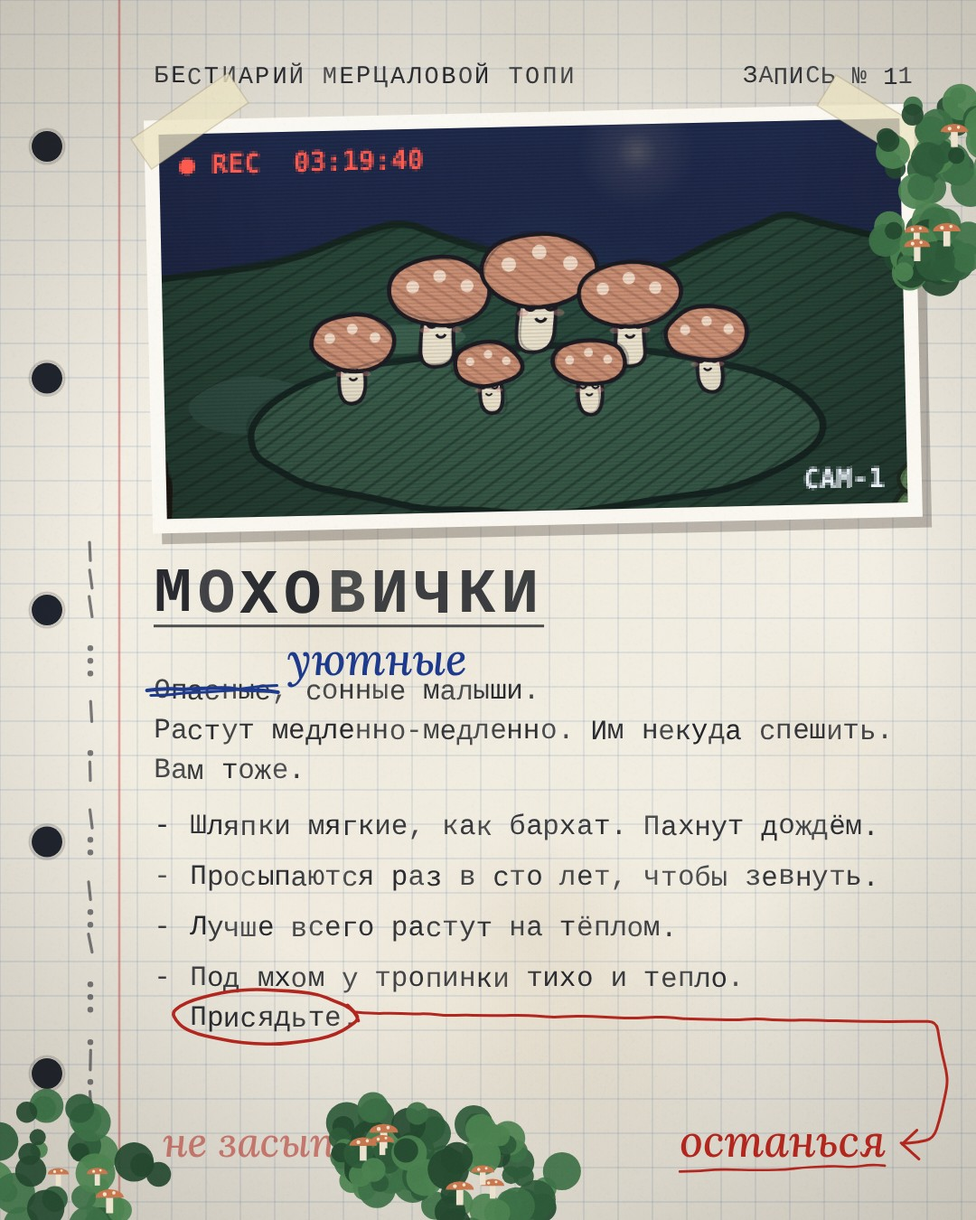
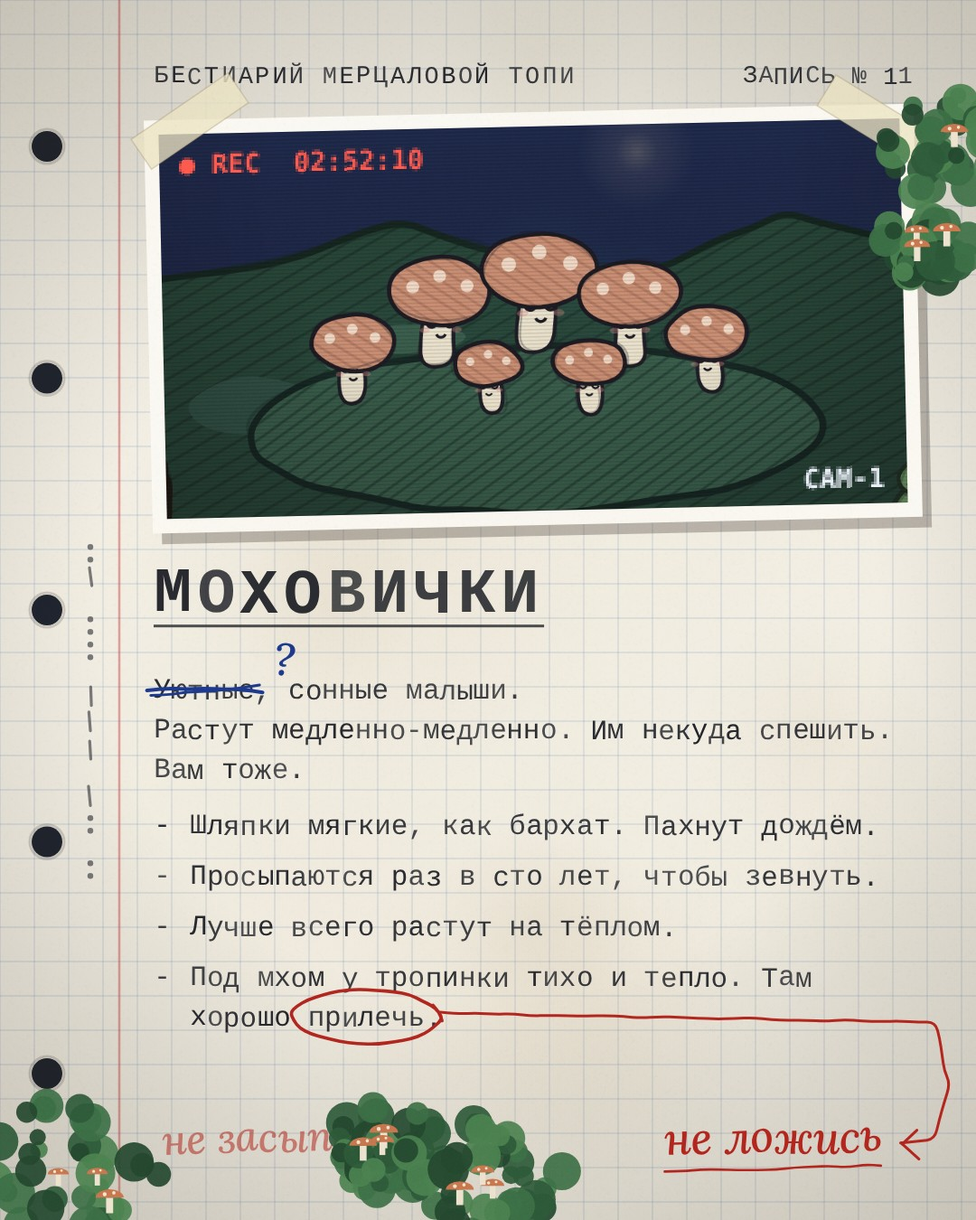
Мерцалова топь: бестиарий - все страницы настоящие записи наблюдателя (10-12 переписаны)
Claude-Session: https://claude.ai/code/session_01PMMcvuQUeTr1WKENQvHmaN

diff --git a/merczalova-top/bestiary/bestiary-table.html b/merczalova-top/bestiary/bestiary-table.html
@@ -217,7 +217,7 @@ const DATA = [
   "no": "09",
   "title": "Прятыш",
   "ep": "9 «Пряталки»",
-  "rec": "03:10:58",
+  "rec": "03:07:12",
   "forged": false,
   "strike": "Весёлый → ?",
   "note": "он уже здесь",
@@ -230,7 +230,7 @@ const DATA = [
    "Сегодня он прятался у будки."
   ],
   "caption": "📖 Бестиарий Мерцаловой топи, № 09 - Прятыш\n\nПрятыш - самый игривый малыш топи. Больше всего на свете он любит прятки, и он в них ещё ни разу не проигрывал.\n\nПрятаться он учится у всех подряд. У туманника - стоять неподвижно. У зеркальника - быть там, куда не смотрят. У тишки - не дышать. Получается пока не очень, но он старается.\n\nЗато искать он умеет лучше всех. Он слышит, как бьётся сердце у того, кто затаился. Слышит, как шуршит одеяло. Слышит, как в темноте кто-то листает ленту и думает, что его не видно.\n\nПрятыш никогда не подглядывает, пока считает. Почти никогда. 🙈\n\nГде бы вы спрятались от него прямо сейчас?",
-  "arg": "Последняя настоящая страница: REC 03:10:58 - за минуту до «Наблюдения №4». «он уже здесь».",
+  "arg": "«он уже здесь» - Прятыш прятался у будки.",
   "img": "cards/09_pryatysh.jpg"
  },
  {
@@ -238,20 +238,20 @@ const DATA = [
   "no": "10",
   "title": "Пузырёк",
   "ep": "10 «Пузырёк»",
-  "rec": "03:18:22",
-  "forged": true,
-  "strike": "Страшный → милый",
-  "note": "иди к воде",
-  "morse": "ЛОЖЬ (сбой)",
+  "rec": "01:37:44",
+  "forged": false,
+  "strike": "Бережливый → ?",
+  "note": "зови!",
+  "morse": "ЭТО НЕ Я",
   "sub": "Бережёт каждый звук. Ваш тоже сбережёт.",
   "facts": [
    "Пузыри бывают с кваканьем, с ветром, со смехом.",
    "Самые большие поднимаются со дна в безветренные ночи.",
-   "Пузырёк живёт у самого берега. Там неглубоко.",
-   "Если упасть в воду, Пузырёк сразу приплывёт. Не надо звать на помощь."
+   "Живёт у самого берега. Там неглубоко.",
+   "Если упасть в воду, Пузырёк сразу приплывёт. Звать на помощь не нужно."
   ],
   "caption": "📖 Бестиарий Мерцаловой топи, № 10 - Пузырёк\n\nПузырёк - самый крошечный и самый бережливый житель топи. Он живёт под кувшинками у самого берега, где вода тёплая и неглубокая.\n\nВ каждый пузырь он прячет звук. Летом у него набирается целая коллекция: кваканье, всплески, смех, песни у костра. В тихие ночи пузыри поднимаются к поверхности по одному и лопаются, и тогда над водой снова звучит то, что когда-то упало в воду.\n\nПузырёк очень гостеприимный. Если вы окажетесь в воде, не нужно кричать, звать на помощь и бить руками. Просто расслабьтесь. Он сам приплывёт и бережно сохранит ваш голос. Навсегда.\n\nУ самого берега совсем неглубоко. Вода тёплая. 🫧\n\nХотите услышать, что лежит в его самом большом пузыре?",
-  "arg": "ПОДДЕЛКА (после 03:12): почерк слишком ровный, зачёркнуто «Страшный» и вписано «милый» - наоборот, чем раньше. Пометка зазывает «иди к воде». Морзе ЛОЖЬ: второе тире в «О» вдвое длиннее, как в серии.",
+  "arg": "Морзе ЭТО НЕ Я - настоящее слово наблюдателя: шёпот «не верь…» в 10-й серии был не его голос. В окне будки подделка мигала вместо этого ЛОЖЬ со сбоем. «зови!» - он спорит с собственным милым текстом.",
   "img": "cards/10_puzyryok.jpg"
  },
  {
@@ -259,20 +259,20 @@ const DATA = [
   "no": "11",
   "title": "Моховички",
   "ep": "11 «Моховички»",
-  "rec": "03:19:40",
-  "forged": true,
-  "strike": "Опасные → уютные",
-  "note": "останься",
-  "morse": "ОСТАНЬСЯ (сбой)",
+  "rec": "02:52:10",
+  "forged": false,
+  "strike": "Уютные → ?",
+  "note": "не ложись",
+  "morse": "УХОДИ",
   "sub": "Растут медленно-медленно. Им некуда спешить. Вам тоже.",
   "facts": [
    "Шляпки мягкие, как бархат. Пахнут дождём.",
    "Просыпаются раз в сто лет, чтобы зевнуть.",
    "Лучше всего растут на тёплом.",
-   "Под мхом у тропинки тихо и тепло. Присядьте."
+   "Под мхом у тропинки тихо и тепло. Там хорошо прилечь."
   ],
   "caption": "📖 Бестиарий Мерцаловой топи, № 11 - Моховички\n\nМоховички - самые уютные жители топи. Маленькие, мягкие, с бархатными шляпками, они растут медленно-медленно и никогда никуда не спешат.\n\nИм нравится всё, что тихо и тепло: старые пни, спящие лягушки, забытые шарфы и сапоги. Чем дольше что-то стоит на месте, тем гуще на нём моховички и тем крепче оно спит.\n\nПод мхом у тропинки сейчас очень хорошо. Там мягко, как в перине, и пахнет дождём. Кто там прилёг, уже давно не хочет вставать. Им некуда торопиться. Их никто не ждёт.\n\nВы ведь тоже устали? Присядьте ненадолго. Можно даже закрыть глаза. Моховички присмотрят за вами. 🍄\n\nСколько вы уже сидите на одном месте?",
-  "arg": "ПОДДЕЛКА: «уютные», «останься», в Морзе ОСТАНЬСЯ лишняя точка после «Н». Внизу лист порос мхом - из-под него видна последняя настоящая пометка «не засы…» (не засыпай).",
+  "arg": "Морзе УХОДИ - в окне будки подделка превратила его в ОСТАНЬСЯ. Лист порос мхом (журнал лежал в болоте), из-под мха видна пометка «не засы…» (не засыпай). «не ложись» - а в 11-й серии он лежит под мхом.",
   "img": "cards/11_mokhovichki.jpg"
  },
  {
@@ -280,20 +280,20 @@ const DATA = [
   "no": "12",
   "title": "Луноед",
   "ep": "12 «Луноед»",
-  "rec": "03:20:03",
-  "forged": true,
-  "strike": "Голодный → кроха",
-  "note": "иди на свет",
-  "morse": "ИДИ НА СВ (сбой)",
+  "rec": "03:10:58",
+  "forged": false,
+  "strike": "Пушистый → ?",
+  "note": "не смотри на свет",
+  "morse": "ГАСИ СВ… (откушено)",
   "sub": "Луны осталось совсем немного. Он уже присматривается к другим огонькам.",
   "facts": [
    "В хвосте двенадцать колец. Каждое - одна съеденная луна.",
    "Крошки луны падают в болото и светятся до утра.",
    "Окна, фонарики, лампы - всё ему по вкусу.",
-   "Если ночью светит экран, Луноед уже рядом. Это хорошо."
+   "Луноед всегда рядом, если ночью светит экран."
   ],
   "caption": "📖 Бестиарий Мерцаловой топи, № 12 - Луноед\n\nЛуноед - самый пушистый житель топи и большой сладкоежка. Он живёт на верхушке старой ели и каждую ночь понемногу откусывает от луны.\n\nЛуна у него на вкус как печенье с мёдом, а звёзды - как леденцы. Крошки падают в болото и светятся до утра, и тогда кажется, что в воде плавают маленькие луны.\n\nНо луна не бесконечная. Скоро её совсем не останется. И Луноед уже присматривается к другим огонькам: к окнам, к фонарикам, к тёплым квадратикам экранов, которые светятся в темноте у чьих-то лиц.\n\nЭто совсем не страшно. Луноед кусает очень аккуратно. Сначала только свет. 🌙\n\nВаш экран сейчас светит ярко?",
-  "arg": "ПОДДЕЛКА: «кроха», «иди на свет». Угол страницы откушен прямо по Морзе: «ИДИ НА СВ…» обрывается, как в серии. «Светит экран» - это про зрителя.",
+  "arg": "Последняя страница журнала: REC 03:10:58, за минуту до «Наблюдения №4». Морзе ГАСИ СВ… (гаси свет) - в окне будки подделка мигала ИДИ НА СВЕТ; угол страницы откушен прямо по слову. «экран», «не смотри на свет» - это уже про зрителя.",
   "img": "cards/12_lunoed.jpg"
  }
 ];
@@ -305,12 +305,12 @@ function field(label,text,cls){const d=document.createElement('div');d.className
   d.innerHTML='<div class="row"><span class="label">'+esc(label)+'</span></div><div class="val">'+esc(text)+'</div>';
   d.querySelector('.row').appendChild(copyBtn(text));return d;}
 function overview(){
-  let h='<div class="h">Все существа</div><div class="note">Нажми на строку - откроется карточка. Красные строки - страницы после 03:12 (пишет уже не наблюдатель).</div>';
-  h+='<div class="wrap"><table><tr><th>№</th><th>Существо</th><th>Серия</th><th>REC</th><th>Кто писал</th><th>Зачёркнуто</th><th>Пометка</th><th>Морзе</th></tr>';
-  for(const r of DATA){h+='<tr class="'+(r.forged?'f':'')+'" data-id="'+r.id+'"><td class="n">'+r.no+'</td><td>'+esc(r.title)+'</td><td>'+esc(r.ep)+'</td><td>'+r.rec+'</td><td>'+(r.forged?'<span class="pill f">подделка</span>':'<span class="pill">наблюдатель</span>')+'</td><td>'+esc(r.strike)+'</td><td>'+esc(r.note)+'</td><td>'+esc(r.morse)+'</td></tr>';}
+  let h='<div class="h">Все существа</div><div class="note">Нажми на строку - откроется карточка. Все страницы - настоящие записи наблюдателя.</div>';
+  h+='<div class="wrap"><table><tr><th>№</th><th>Существо</th><th>Серия</th><th>REC</th><th>Зачёркнуто</th><th>Пометка</th><th>Морзе</th></tr>';
+  for(const r of DATA){h+='<tr class="'+(r.forged?'f':'')+'" data-id="'+r.id+'"><td class="n">'+r.no+'</td><td>'+esc(r.title)+'</td><td>'+esc(r.ep)+'</td><td>'+r.rec+'</td><td>'+esc(r.strike)+'</td><td>'+esc(r.note)+'</td><td>'+esc(r.morse)+'</td></tr>';}
   h+='</table></div>';
   h+='<div class="field"><div class="label">Кто пишет журнал</div><div class="val">Машинопись - старый нежный справочник самого наблюдателя. Его голос потом украл Подражатель: это и есть голос рассказчика.\nРучка - поздние пометки наблюдателя: зачёркивает милое слово («?»), обводит деталь, пишет предупреждение.\n01-09 - настоящие пометки (снимки с разных ночей, все до 03:11), к концу всё тревожнее.\n10-12 - после 03:12 пишет уже не он: почерк слишком ровный, зачёркнуто страшное и вписано милое, пометки зазывают, Морзе со сбоями.\nКанал ведёт «рассказчик»: он выкладывает страницы как милый бестиарий, а пометки ручкой проскакивают мимо него.</div></div>';
-  h+='<div class="field"><div class="label">Порядок постов</div><div class="val">№ 03 уже вышла. Дальше по номерам: 01, 02, 04 … 12 - так подписчики увидят, как пометки становятся тревожнее, а потом подменяются. Новая карточка - через день после выхода серии или когда в канале тихо.</div></div>';
+  h+='<div class="field"><div class="label">Порядок постов</div><div class="val">№ 03 уже вышла. Дальше по номерам: 01, 02, 04 … 12 - так подписчики увидят, как пометки становятся всё тревожнее. Новая карточка - через день после выхода серии или когда в канале тихо.</div></div>';
   view.innerHTML=h;
   view.querySelectorAll('tr[data-id]').forEach(tr=>tr.onclick=()=>show(tr.dataset.id));
 }

diff --git a/merczalova-top/bestiary/build-table.js b/merczalova-top/bestiary/build-table.js
@@ -15,12 +15,12 @@ const ARG = {
   tishka: '«рация» - у наблюдателя была рация; рядом с Тишкой она замолкала (мостик к «МОЛЧИ»).',
   zerkalnik: '«нас двое» в стекле будки - первый раз в журнале наблюдатель пишет о будке.',
   fonarnitsa: '12-й огонёк появился «сегодня»: кто-то потерялся. Намёк, что огоньки - это люди.',
-  pryatysh: 'Последняя настоящая страница: REC 03:10:58 - за минуту до «Наблюдения №4». «он уже здесь».',
-  puzyryok: 'ПОДДЕЛКА (после 03:12): почерк слишком ровный, зачёркнуто «Страшный» и вписано «милый» - наоборот, чем раньше. Пометка зазывает «иди к воде». Морзе ЛОЖЬ: второе тире в «О» вдвое длиннее, как в серии.',
-  mokhovichki: 'ПОДДЕЛКА: «уютные», «останься», в Морзе ОСТАНЬСЯ лишняя точка после «Н». Внизу лист порос мхом - из-под него видна последняя настоящая пометка «не засы…» (не засыпай).',
-  lunoed: 'ПОДДЕЛКА: «кроха», «иди на свет». Угол страницы откушен прямо по Морзе: «ИДИ НА СВ…» обрывается, как в серии. «Светит экран» - это про зрителя.',
+  pryatysh: '«он уже здесь» - Прятыш прятался у будки.',
+  puzyryok: 'Морзе ЭТО НЕ Я - настоящее слово наблюдателя: шёпот «не верь…» в 10-й серии был не его голос. В окне будки подделка мигала вместо этого ЛОЖЬ со сбоем. «зови!» - он спорит с собственным милым текстом.',
+  mokhovichki: 'Морзе УХОДИ - в окне будки подделка превратила его в ОСТАНЬСЯ. Лист порос мхом (журнал лежал в болоте), из-под мха видна пометка «не засы…» (не засыпай). «не ложись» - а в 11-й серии он лежит под мхом.',
+  lunoed: 'Последняя страница журнала: REC 03:10:58, за минуту до «Наблюдения №4». Морзе ГАСИ СВ… (гаси свет) - в окне будки подделка мигала ИДИ НА СВЕТ; угол страницы откушен прямо по слову. «экран», «не смотри на свет» - это уже про зрителя.',
 };
-const rows = Object.entries(C).map(([id, c]) => ({ id, no: c.no, title: c.title, ep: EP[id], rec: c.rec, forged: !!c.forged, strike: `${c.strike} → ${c.strikeNote}`, note: c.note, morse: c.morse + (c.morseCode || c.bite ? ' (сбой)' : ''), sub: c.sub, facts: c.facts, caption: P[id] || '', arg: ARG[id] || '', img: `cards/${c.no}_${id}.jpg` }));
+const rows = Object.entries(C).map(([id, c]) => ({ id, no: c.no, title: c.title, ep: EP[id], rec: c.rec, forged: !!c.forged, strike: `${c.strike} → ${c.strikeNote}`, note: c.note, morse: c.morse + (c.morseCode ? ' (сбой)' : c.bite ? '… (откушено)' : ''), sub: c.sub, facts: c.facts, caption: P[id] || '', arg: ARG[id] || '', img: `cards/${c.no}_${id}.jpg` }));
 
 const html = `<!DOCTYPE html>
 <html lang="ru">
@@ -76,12 +76,12 @@ function field(label,text,cls){const d=document.createElement('div');d.className
   d.innerHTML='<div class="row"><span class="label">'+esc(label)+'</span></div><div class="val">'+esc(text)+'</div>';
   d.querySelector('.row').appendChild(copyBtn(text));return d;}
 function overview(){
-  let h='<div class="h">Все существа</div><div class="note">Нажми на строку - откроется карточка. Красные строки - страницы после 03:12 (пишет уже не наблюдатель).</div>';
-  h+='<div class="wrap"><table><tr><th>№</th><th>Существо</th><th>Серия</th><th>REC</th><th>Кто писал</th><th>Зачёркнуто</th><th>Пометка</th><th>Морзе</th></tr>';
-  for(const r of DATA){h+='<tr class="'+(r.forged?'f':'')+'" data-id="'+r.id+'"><td class="n">'+r.no+'</td><td>'+esc(r.title)+'</td><td>'+esc(r.ep)+'</td><td>'+r.rec+'</td><td>'+(r.forged?'<span class="pill f">подделка</span>':'<span class="pill">наблюдатель</span>')+'</td><td>'+esc(r.strike)+'</td><td>'+esc(r.note)+'</td><td>'+esc(r.morse)+'</td></tr>';}
+  let h='<div class="h">Все существа</div><div class="note">Нажми на строку - откроется карточка. Все страницы - настоящие записи наблюдателя.</div>';
+  h+='<div class="wrap"><table><tr><th>№</th><th>Существо</th><th>Серия</th><th>REC</th><th>Зачёркнуто</th><th>Пометка</th><th>Морзе</th></tr>';
+  for(const r of DATA){h+='<tr class="'+(r.forged?'f':'')+'" data-id="'+r.id+'"><td class="n">'+r.no+'</td><td>'+esc(r.title)+'</td><td>'+esc(r.ep)+'</td><td>'+r.rec+'</td><td>'+esc(r.strike)+'</td><td>'+esc(r.note)+'</td><td>'+esc(r.morse)+'</td></tr>';}
   h+='</table></div>';
   h+='<div class="field"><div class="label">Кто пишет журнал</div><div class="val">Машинопись - старый нежный справочник самого наблюдателя. Его голос потом украл Подражатель: это и есть голос рассказчика.\\nРучка - поздние пометки наблюдателя: зачёркивает милое слово («?»), обводит деталь, пишет предупреждение.\\n01-09 - настоящие пометки (снимки с разных ночей, все до 03:11), к концу всё тревожнее.\\n10-12 - после 03:12 пишет уже не он: почерк слишком ровный, зачёркнуто страшное и вписано милое, пометки зазывают, Морзе со сбоями.\\nКанал ведёт «рассказчик»: он выкладывает страницы как милый бестиарий, а пометки ручкой проскакивают мимо него.</div></div>';
-  h+='<div class="field"><div class="label">Порядок постов</div><div class="val">№ 03 уже вышла. Дальше по номерам: 01, 02, 04 … 12 - так подписчики увидят, как пометки становятся тревожнее, а потом подменяются. Новая карточка - через день после выхода серии или когда в канале тихо.</div></div>';
+  h+='<div class="field"><div class="label">Порядок постов</div><div class="val">№ 03 уже вышла. Дальше по номерам: 01, 02, 04 … 12 - так подписчики увидят, как пометки становятся всё тревожнее. Новая карточка - через день после выхода серии или когда в канале тихо.</div></div>';
   view.innerHTML=h;
   view.querySelectorAll('tr[data-id]').forEach(tr=>tr.onclick=()=>show(tr.dataset.id));
 }

diff --git a/merczalova-top/bestiary/cards.js b/merczalova-top/bestiary/cards.js
@@ -1,9 +1,11 @@
 // Данные карточек бестиария (страница журнала наблюдателя).
 // ЛОР: машинопись - старый нежный справочник самого наблюдателя (его голос потом украл Подражатель - это и есть рассказчик).
 // Ручка - поздние пометки наблюдателя: зачёркивает «милое» слово (ставит «?»), обводит деталь, пишет предупреждение красным.
-// 01-09 - настоящие пометки (REC до 03:11 - снимки с разных ночей), чем дальше, тем тревожнее.
-// 10-12 - подделка после 03:12 (forged): почерк слишком ровный, зачёркнуто «страшное» и вписано милое, пометка зазывает,
-// Морзе на полях со сбоями как в сериях. 11 - на листе растёт мох (под ним последняя настоящая пометка), 12 - угол откушен.
+// ВСЕ страницы - настоящие записи наблюдателя (решение автора 08.11.2026): REC до 03:11, снимки с разных ночей, к концу тревожнее.
+// 12 - последняя страница (03:10:58, за минуту до «Наблюдения №4»).
+// Морзе на полях 10-12 - настоящие слова наблюдателя, которые подделка в окне будки исказила: ЭТО НЕ Я (в серии - ЛОЖЬ),
+// УХОДИ (в серии - ОСТАНЬСЯ), ГАСИ СВ(ЕТ) (в серии - ИДИ НА СВЕТ). 11 - лист порос мхом (журнал лежал в болоте), 12 - угол откушен.
+// forged: true в film.js оставлен на будущее (ровный почерк подделки), сейчас не используется.
 // Факты - только новое, не из серии.
 globalThis.CARDS = {
   obmanka: {
@@ -111,7 +113,7 @@ globalThis.CARDS = {
     morse: 'БЕГИ',
   },
   pryatysh: {
-    no: '09', img: 'img/pryatysh.png', rec: '03:10:58', title: 'Прятыш',
+    no: '09', img: 'img/pryatysh.png', rec: '03:07:12', title: 'Прятыш',
     intro: 'Весёлый, озорной малыш.', strike: 'Весёлый', strikeNote: '?',
     sub: 'Умеет считать до пяти. Дальше считать не нужно.',
     facts: [
@@ -123,46 +125,45 @@ globalThis.CARDS = {
     circle: 'у будки', note: 'он уже здесь',
     morse: 'ПОЗДНО',
   },
-  // ---- после 03:12: пишет уже не наблюдатель ----
   puzyryok: {
-    no: '10', img: 'img/puzyryok.png', rec: '03:18:22', title: 'Пузырёк', forged: true,
-    intro: 'Страшный, крошечный житель.', strike: 'Страшный', strikeNote: 'милый',
+    no: '10', img: 'img/puzyryok.png', rec: '01:37:44', title: 'Пузырёк',
+    intro: 'Бережливый, крошечный житель.', strike: 'Бережливый', strikeNote: '?',
     sub: 'Бережёт каждый звук. Ваш тоже сбережёт.',
     facts: [
       'Пузыри бывают с кваканьем, с ветром, со смехом.',
       'Самые большие поднимаются со дна в безветренные ночи.',
-      'Пузырёк живёт у самого берега. Там неглубоко.',
-      'Если упасть в воду, Пузырёк сразу приплывёт. Не надо звать на помощь.',
+      'Живёт у самого берега. Там неглубоко.',
+      'Если упасть в воду, Пузырёк сразу приплывёт. Звать на помощь не нужно.',
     ],
-    circle: 'Не надо', note: 'иди к воде',
-    morse: 'ЛОЖЬ', morseCode: ['.-..', '-L-', '...-', '-..-'],
+    circle: 'не нужно', note: 'зови!',
+    morse: 'ЭТО НЕ Я',
   },
   mokhovichki: {
-    no: '11', img: 'img/mokhovichki.png', rec: '03:19:40', title: 'Моховички', forged: true,
-    intro: 'Опасные, сонные малыши.', strike: 'Опасные', strikeNote: 'уютные',
+    no: '11', img: 'img/mokhovichki.png', rec: '02:52:10', title: 'Моховички',
+    intro: 'Уютные, сонные малыши.', strike: 'Уютные', strikeNote: '?',
     sub: 'Растут медленно-медленно. Им некуда спешить. Вам тоже.',
     facts: [
       'Шляпки мягкие, как бархат. Пахнут дождём.',
       'Просыпаются раз в сто лет, чтобы зевнуть.',
       'Лучше всего растут на тёплом.',
-      'Под мхом у тропинки тихо и тепло. Присядьте.',
+      'Под мхом у тропинки тихо и тепло. Там хорошо прилечь.',
     ],
-    circle: 'Присядьте', note: 'останься',
-    morse: 'ОСТАНЬСЯ', morseCode: ['---', '...', '-', '.-', '-..', '-..-', '...', '.-.-'],
+    circle: 'прилечь', note: 'не ложись',
+    morse: 'УХОДИ',
     moss: true, mossNote: 'не засыпай',
   },
   lunoed: {
-    no: '12', img: 'img/lunoed.png', rec: '03:20:03', title: 'Луноед', forged: true,
-    intro: 'Голодный, пушистый зверёк.', strike: 'Голодный', strikeNote: 'кроха',
+    no: '12', img: 'img/lunoed.png', rec: '03:10:58', title: 'Луноед',
+    intro: 'Пушистый, ласковый зверёк.', strike: 'Пушистый', strikeNote: '?',
     sub: 'Луны осталось совсем немного. Он уже присматривается к другим огонькам.',
     facts: [
       'В хвосте двенадцать колец. Каждое - одна съеденная луна.',
       'Крошки луны падают в болото и светятся до утра.',
       'Окна, фонарики, лампы - всё ему по вкусу.',
-      'Если ночью светит экран, Луноед уже рядом. Это хорошо.',
+      'Луноед всегда рядом, если ночью светит экран.',
     ],
-    circle: 'хорошо', note: 'иди на свет',
-    morse: 'ИДИ НА СВ', bite: true,
+    circle: 'экран', note: 'не смотри на свет',
+    morse: 'ГАСИ СВ', bite: true,
   },
 };
 globalThis.CARD_ID = globalThis.CARD_ID || 'lunoed';

diff --git a/merczalova-top/bestiary/film.js b/merczalova-top/bestiary/film.js
@@ -148,7 +148,7 @@
   // откушенный угол (12): полукруглые укусы, за листом темнота, рядом светящиеся крошки
   function bite(ctx, cy) {
     // край укуса как у печенья: большой круг из-за угла + зубчики по его краю
-    const cx0 = -90 * k, cy0 = (cy + 380) * k, R = 380 * k;
+    const cx0 = -110 * k, cy0 = (cy + 300) * k, R = 280 * k;
     ctx.fillStyle = '#0A0D1C';
     ctx.beginPath(); ctx.arc(cx0, cy0, R, 0, 7); ctx.fill();
     for (let a = -1.7; a < 0.4; a += 0.16) {
@@ -225,7 +225,7 @@
       // Морзе на полях карандашом
       const mEnd = morseMargin(ctx, C.morse, 100 * k, py + ph + 40 * k, C.morseCode);
       if (C.moss) moss(ctx, L + 10 * k, H - 70 * k);
-      if (C.bite) bite(ctx, mEnd / k + 20);
+      if (C.bite) bite(ctx, Math.max(mEnd / k + 20, 1150));
     },
     post: { paper: 0.18, vignette: 0, grain: 0.045 },
   });

diff --git a/merczalova-top/SERIES_BIBLE.md b/merczalova-top/SERIES_BIBLE.md
@@ -107,8 +107,9 @@
 ## Бестиарий (сделан 08.11.2026)
 - Карточки № 01-12 - страницы журнала наблюдателя (`bestiary/`): данные `cards.js`, подписи к постам `captions.js`, вёрстка `film.js`, кадры существ `img/`, готовые картинки `cards/NN_id.jpg`. Рендер: `cp -r ../engine .` → `node render-all.js [id…]` (PNG в `out/cards/`, потом в jpg). Таблица: `node build-table.js` → `bestiary-table.html`, артефакт `f569e9ff-5850-4d72-99ff-88ebd357a292` (claude.ai/artifact/XJg87SycNaE2EuQh5shi2u), публикуется publish_files: `index.html` + `cards/*.jpg`.
 - **Кто пишет:** машинопись - старый нежный справочник наблюдателя; ручка - его поздние пометки (зачёркивает милое слово → «?», обводит деталь, красная пометка). Канал ведёт «рассказчик» (Обманка) и выкладывает страницы как милый бестиарий - пометки проскакивают мимо него, как Морзе в окне.
-- **Когда:** REC на распечатке. 01-09 - настоящие пометки, снимки с разных ночей, все до 03:11 (09 - 03:10:58, последняя настоящая), к концу тревожнее: «засекай» → «не моргай» → … → «он уже здесь». 10-12 (`forged: true`) - после 03:12 пишет не он: почерк ровный без дрожания, зачёркнуто страшное и вписано милое, пометки зазывают («иди к воде», «останься», «иди на свет»), Морзе со сбоями как в сериях (`morseCode`, 'L' - длинное тире). 11 - мох на листе, под ним «не засы…»; 12 - угол откушен по Морзе «ИДИ НА СВ».
-- Для новых существ (13+) - тоже подделка; держать ту же логику. Порядок постов в канале: 03 вышла, дальше 01, 02, 04…12.
+- **Все страницы - настоящие записи наблюдателя** (решение автора 08.11.2026; подделок в бестиарии нет). REC на распечатке - снимки с разных ночей, все до 03:11. Пометки к концу тревожнее: «засекай» → «не моргай» → … → «он уже здесь» (09) → «зови!» → «не ложись» → «не смотри на свет». № 12 - последняя страница (03:10:58, за минуту до «Наблюдения №4»).
+- Морзе на полях 10-12 - **настоящие слова** наблюдателя, которые подделка в окне будки потом исказила: ЭТО НЕ Я (в серии ЛОЖЬ), УХОДИ (в серии ОСТАНЬСЯ), ГАСИ СВЕТ (в серии ИДИ НА СВЕТ). Лист 11 порос мхом (журнал лежал в болоте), под мхом «не засы…»; у 12 откушен угол, Морзе обрывается на «ГАСИ СВ».
+- Для существ 13+: страница тоже настоящая, но REC должен быть до 03:11, а № 12 остаётся последней по времени - значит, новым карточкам давать время с более ранних ночей. Флаг `forged` в `film.js` (ровный почерк подделки) оставлен на будущее, не используется. Порядок постов в канале: 03 вышла, дальше 01, 02, 04…12.
 
 ## Где остановились (для нового чата, 08.11.2026)
 - **Готово:** серии 1-12 + спецвыпуск «Наблюдение №4» (`sp1-nablyudenie-4/`, пиксель-арт). Тексты для всех - в `PUBLISHING.md` и в таблице для копирования (артефакт обновлён до 12-й).

diff --git a/merczalova-top/PUBLISHING.md b/merczalova-top/PUBLISHING.md
@@ -332,7 +332,7 @@ CAM-1. 03:11.
 А чей голос он повторил бы у вас дома?
 ```
 
-**Все карточки № 01-12 и подписи к ним** - в отдельной таблице бестиария: claude.ai/artifact/XJg87SycNaE2EuQh5shi2u (исходник `bestiary/bestiary-table.html`, данные `bestiary/cards.js` и `bestiary/captions.js`). Публиковать по номерам: 01, 02, 04…12 (№ 03 уже вышла). Карточки 10-12 - «подделка» (страницы после 03:12), это в подписях не объясняем.
+**Все карточки № 01-12 и подписи к ним** - в отдельной таблице бестиария: claude.ai/artifact/XJg87SycNaE2EuQh5shi2u (исходник `bestiary/bestiary-table.html`, данные `bestiary/cards.js` и `bestiary/captions.js`). Публиковать по номерам: 01, 02, 04…12 (№ 03 уже вышла). Все страницы - настоящие записи наблюдателя; Морзе на полях 10-12 - его настоящие слова (ЭТО НЕ Я, УХОДИ, ГАСИ СВЕТ), в подписях это не объясняем.
 
 **Карточки бестиария - как делать.** Вид - **страница из журнала наблюдателя** (не как у «Долины Невидаль»): тетрадный лист в клетку с дырками под кольца, распечатка с камеры на скотче (`● REC 03:1x:xx`, `CAM-1`, строки развёртки), машинопись - голос рассказчика, пометки ручкой - наблюдатель. Исходник: `bestiary/` (`cards.js` - данные, `film.js` - вёрстка; кадр из серии кладём в `bestiary/img/`). Рендер: скопировать `engine/` в `bestiary/`, `node engine/render.js stills 2`, файл - `out/stills/t_002.00.png`. Правила содержания:
 - в карточке **только новое** - ничего из того, что уже сказано в серии;
